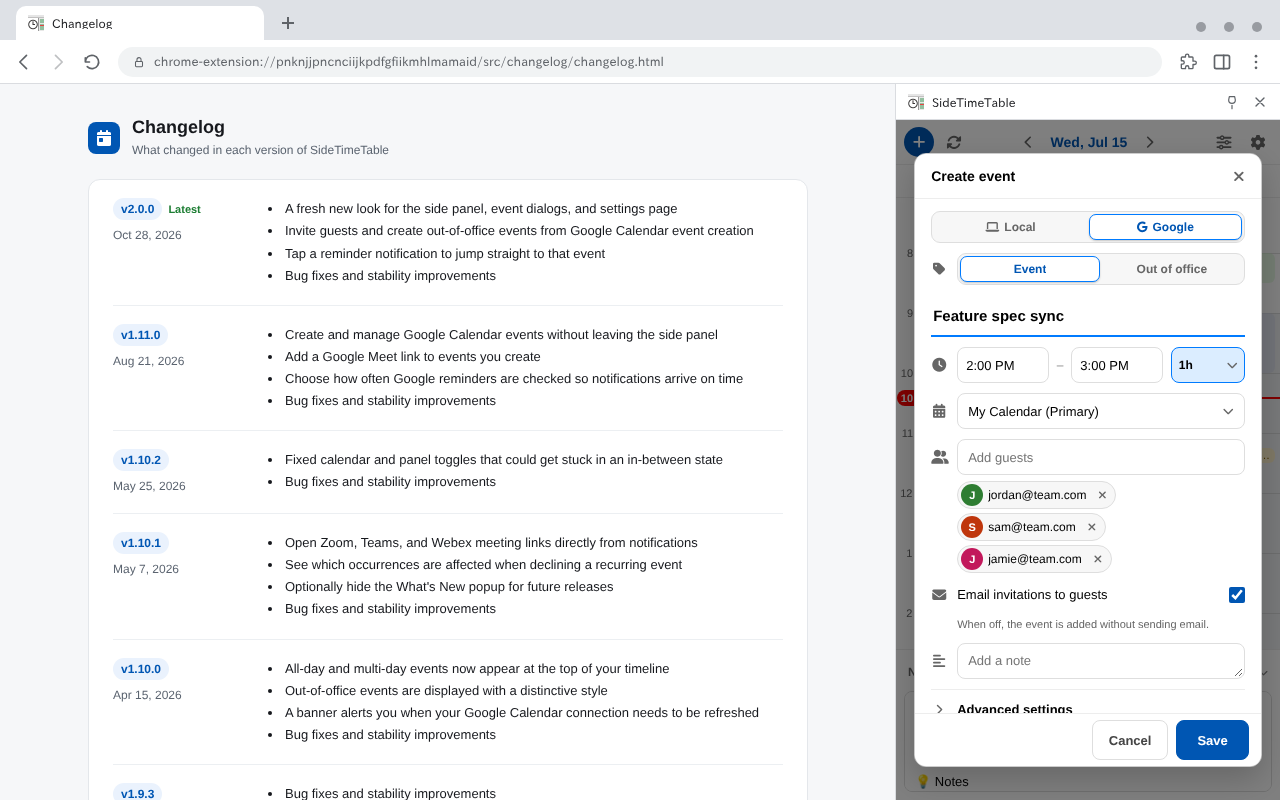
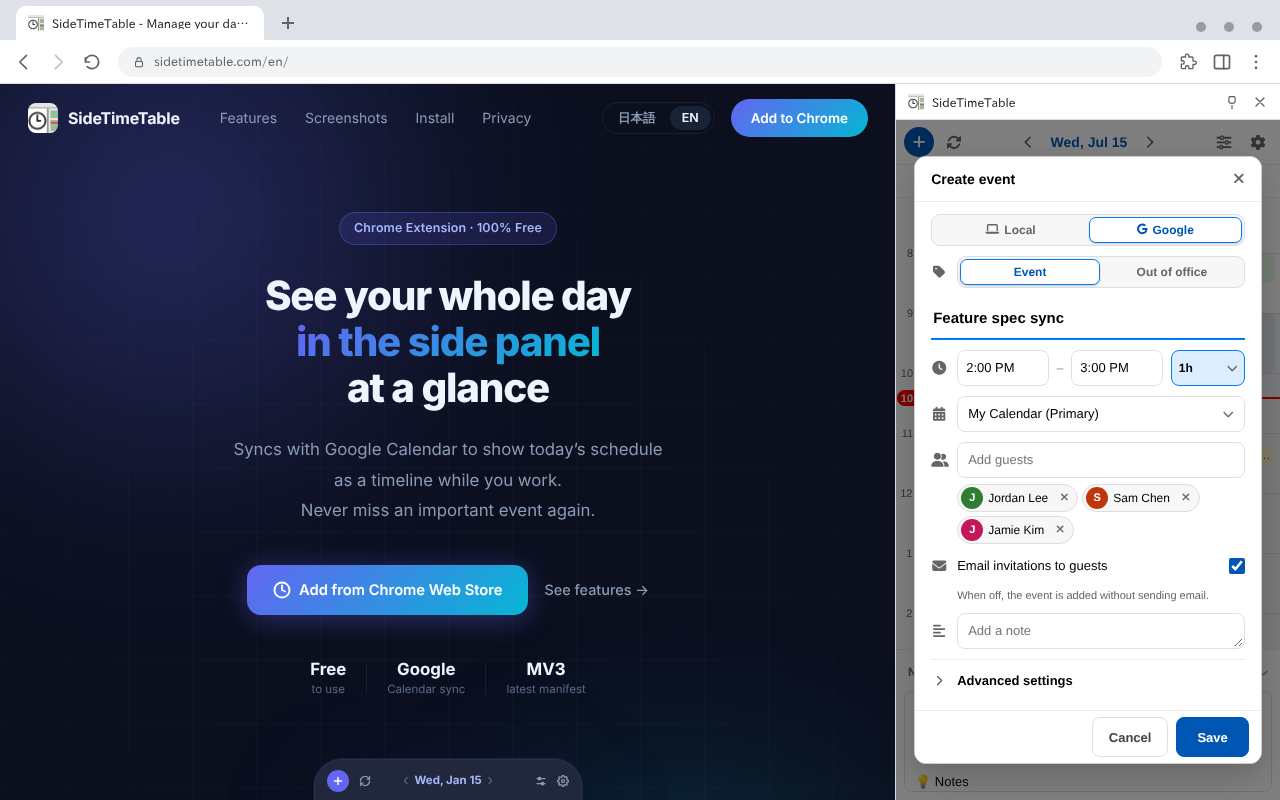
Add a meeting-details screenshot and show the dark timeline in shot 3
- Shot 5: a Google meeting's details with the Meet button, each guest's
  reply and the RSVP control. The dev_team demo's team meeting gets guests
  and an unanswered invitation for it.
- Shot 3 drops the local create dialog, which repeated shot 4.
- Capture both backdrop pages in both languages so shots 1, 4 and 5 vary.

Claude-Session: https://claude.ai/code/session_01SzrF9JTe1vhCmxkuxd6DeB

diff --git a/scripts/screenshots/capture.js b/scripts/screenshots/capture.js
@@ -6,11 +6,12 @@
  * captures the raw page images that compose.js later frames:
  *
  *   panel-light[-en].png       side panel timeline (light theme)
- *   panel-dark-modal[-en].png  side panel with the local event modal (dark)
+ *   panel-dark[-en].png        side panel timeline (dark)
  *   panel-google-modal[-en].png  side panel creating a Google event with guests (light)
+ *   panel-google-detail[-en].png side panel showing a meeting's details (light)
  *   options-light[-en].png     options page, integration section (light)
  *   options-dark[-en].png      options page, display section (dark)
- *   landing.png / changelog-en.png   backdrop page for shot 1
+ *   landing[-en].png / changelog[-en].png   backdrop pages
  *
  * The page clock is fixed (Playwright Clock API) so the demo date/time in the
  * output is stable across runs - re-running with no UI change reproduces the
@@ -38,7 +39,7 @@ const LOCALES = {
         env: { LANGUAGE: 'ja_JP', LANG: 'ja_JP.UTF-8', LC_ALL: 'ja_JP.UTF-8' },
         chromeLang: 'ja', locale: 'ja-JP', tz: 'Asia/Tokyo',
         fixedTime: `${FIXED_DATE}T${FIXED_TIME}:00+09:00`,
-        eventTitle: 'デザインレビュー',
+        meetingTitle: 'チーム定例MTG',
         googleEventTitle: '新機能の仕様すり合わせ',
         primaryCalendar: 'マイカレンダー',
         suffix: '',
@@ -47,7 +48,7 @@ const LOCALES = {
         env: { LANGUAGE: 'en_US', LANG: 'en_US.UTF-8', LC_ALL: 'en_US.UTF-8' },
         chromeLang: 'en-US', locale: 'en-US', tz: 'America/New_York',
         fixedTime: `${FIXED_DATE}T${FIXED_TIME}:00-04:00`,
-        eventTitle: 'Design review',
+        meetingTitle: 'Weekly Team Meeting',
         googleEventTitle: 'Feature spec sync',
         primaryCalendar: 'My Calendar',
         suffix: '-en',
@@ -110,7 +111,7 @@ function waitForTheme(page, dark) {
  * @param {'ja'|'en'} lang - Target language
  * @param {Object} opts
  * @param {string} opts.rawDir - Directory for the raw PNGs
- * @param {string} [opts.landingUrl] - Local URL of the landing page (ja shot 1)
+ * @param {string} opts.landingUrl - Local URL of the landing page (served docs/)
  */
 async function capture(lang, { rawDir, landingUrl }) {
     const L = LOCALES[lang];
@@ -211,33 +212,24 @@ async function capture(lang, { rawDir, landingUrl }) {
         await page.reload({ waitUntil: 'load' });
         await waitForTimeline(page);
 
-        // Side panel with local-event modal (dark)
+        // Side panel with a Google meeting's details (light): Meet, guests, RSVP
+        await page.locator('.google-event', { hasText: L.meetingTitle }).first().click({ force: true });
+        await page.locator('.event-detail-join').first().waitFor({ state: 'visible', timeout: 5000 });
+        // Unfold the guest list so each reply shows
+        await page.locator('.event-detail-attendees-toggle').click();
+        await page.waitForTimeout(200);
+        // No focus ring on the close button or the toggle in the capture
+        await page.evaluate(() => document.activeElement?.blur());
+        await page.screenshot({ path: out('panel-google-detail'), animations: 'disabled' });
+
+        // Side panel timeline (dark)
         await page.evaluate(async () => {
             await chrome.storage.sync.set({ colorTheme: 'dark' });
         });
         await page.reload({ waitUntil: 'load' });
         await waitForTimeline(page);
         await waitForTheme(page, true);
-        await page.locator('#addLocalEventButton').click({ force: true });
-        await page.locator('#eventTitle').waitFor({ state: 'visible', timeout: 5000 });
-        // pre-fill the form so the modal looks lived-in
-        await page.evaluate((title) => {
-            const set = (sel, v) => {
-                const el = document.querySelector(sel);
-                if (!el) throw new Error(`missing ${sel}`);
-                el.value = v;
-                el.dispatchEvent(new Event('input', { bubbles: true }));
-                // The form reacts on change (e.g. the duration picker follows the times)
-                el.dispatchEvent(new Event('change', { bubbles: true }));
-            };
-            set('#eventTitle', title);
-            // End first, so the start never lands after the end in between
-            set('#eventEndTime', '17:00');
-            set('#eventStartTime', '16:30');
-            // No focus ring or selected time segment in the capture
-            document.activeElement?.blur();
-        }, L.eventTitle);
-        await page.screenshot({ path: out('panel-dark-modal'), animations: 'disabled' });
+        await page.screenshot({ path: out('panel-dark'), animations: 'disabled' });
         // restore light theme before the options captures
         await page.evaluate(async () => {
             await chrome.storage.sync.set({ colorTheme: 'default' });
@@ -267,21 +259,18 @@ async function capture(lang, { rawDir, landingUrl }) {
             await chrome.storage.sync.set({ colorTheme: 'default' });
         });
 
-        // Backdrop page for shot 1: landing page (ja) / changelog page (en)
+        // Backdrop pages: the landing page and the changelog page
+        if (!landingUrl) throw new Error('landingUrl is required');
         const backdrop = await ctx.newPage();
         await backdrop.clock.setFixedTime(fixedTime);
         await backdrop.setViewportSize({ width: PAGE_W, height: CONTENT_H });
-        if (lang === 'ja') {
-            if (!landingUrl) throw new Error('landingUrl is required for the ja capture');
-            await backdrop.goto(landingUrl, { waitUntil: 'load' });
-            await backdrop.waitForTimeout(1500); // hero entrance animations finish
-            await backdrop.screenshot({ path: path.join(rawDir, 'landing.png'), animations: 'disabled' });
-        } else {
-            await backdrop.goto(changelogUrl, { waitUntil: 'load' });
-            await backdrop.waitForSelector('h1', { timeout: 10000 });
-            await waitForTheme(backdrop, false);
-            await backdrop.screenshot({ path: path.join(rawDir, 'changelog-en.png'), animations: 'disabled' });
-        }
+        await backdrop.goto(lang === 'ja' ? landingUrl : new URL('en/index.html', landingUrl).href, { waitUntil: 'load' });
+        await backdrop.waitForTimeout(1500); // hero entrance animations finish
+        await backdrop.screenshot({ path: out('landing'), animations: 'disabled' });
+        await backdrop.goto(changelogUrl, { waitUntil: 'load' });
+        await backdrop.waitForSelector('h1', { timeout: 10000 });
+        await waitForTheme(backdrop, false);
+        await backdrop.screenshot({ path: out('changelog'), animations: 'disabled' });
     } finally {
         await ctx.close();
         try {

diff --git a/scripts/screenshots/compose.js b/scripts/screenshots/compose.js
@@ -5,7 +5,7 @@
  * frame (tab strip, toolbar, omnibox, optional side-panel header) and renders
  * the result at 1280x800 - the Chrome Web Store standard screenshot size.
  *
- * Output: image_1[_en].png .. image_4[_en].png
+ * Output: image_1[_en].png .. image_5[_en].png
  */
 
 const fs = require('fs');
@@ -33,14 +33,14 @@ const THEMES = {
     },
 };
 
+const LANDING_JA = { tabTitle: 'SideTimeTable - サイドパネルで今日を管理する', url: 'sidetimetable.com' };
+const LANDING_EN = { tabTitle: 'SideTimeTable - Manage your day in the side panel', url: 'sidetimetable.com/en/' };
+const CHANGELOG_JA = { tabTitle: '変更履歴', url: `${EXT_URL}/src/changelog/changelog.html` };
+const CHANGELOG_EN = { tabTitle: 'Changelog', url: `${EXT_URL}/src/changelog/changelog.html` };
+
 const SHOTS = {
     ja: [
-        {
-            out: 'image_1.png', theme: 'light',
-            tabTitle: 'SideTimeTable - サイドパネルで今日を管理する',
-            url: 'sidetimetable.com',
-            pageImg: 'landing.png', panelImg: 'panel-light.png',
-        },
+        { out: 'image_1.png', theme: 'light', ...LANDING_JA, pageImg: 'landing.png', panelImg: 'panel-light.png' },
         {
             out: 'image_2.png', theme: 'light',
             tabTitle: 'SideTimeTable の設定',
@@ -51,22 +51,13 @@ const SHOTS = {
             out: 'image_3.png', theme: 'dark',
             tabTitle: 'SideTimeTable の設定',
             url: `${EXT_URL}/src/options/options.html`,
-            pageImg: 'options-dark.png', panelImg: 'panel-dark-modal.png',
+            pageImg: 'options-dark.png', panelImg: 'panel-dark.png',
         },
-        {
-            out: 'image_4.png', theme: 'light',
-            tabTitle: 'SideTimeTable - サイドパネルで今日を管理する',
-            url: 'sidetimetable.com',
-            pageImg: 'landing.png', panelImg: 'panel-google-modal.png',
-        },
+        { out: 'image_4.png', theme: 'light', ...CHANGELOG_JA, pageImg: 'changelog.png', panelImg: 'panel-google-modal.png' },
+        { out: 'image_5.png', theme: 'light', ...LANDING_JA, pageImg: 'landing.png', panelImg: 'panel-google-detail.png' },
     ],
     en: [
-        {
-            out: 'image_1_en.png', theme: 'light',
-            tabTitle: 'Changelog',
-            url: `${EXT_URL}/src/changelog/changelog.html`,
-            pageImg: 'changelog-en.png', panelImg: 'panel-light-en.png',
-        },
+        { out: 'image_1_en.png', theme: 'light', ...CHANGELOG_EN, pageImg: 'changelog-en.png', panelImg: 'panel-light-en.png' },
         {
             out: 'image_2_en.png', theme: 'light',
             tabTitle: 'SideTimeTable settings',
@@ -77,14 +68,10 @@ const SHOTS = {
             out: 'image_3_en.png', theme: 'dark',
             tabTitle: 'SideTimeTable settings',
             url: `${EXT_URL}/src/options/options.html`,
-            pageImg: 'options-dark-en.png', panelImg: 'panel-dark-modal-en.png',
+            pageImg: 'options-dark-en.png', panelImg: 'panel-dark-en.png',
         },
-        {
-            out: 'image_4_en.png', theme: 'light',
-            tabTitle: 'Changelog',
-            url: `${EXT_URL}/src/changelog/changelog.html`,
-            pageImg: 'changelog-en.png', panelImg: 'panel-google-modal-en.png',
-        },
+        { out: 'image_4_en.png', theme: 'light', ...LANDING_EN, pageImg: 'landing-en.png', panelImg: 'panel-google-modal-en.png' },
+        { out: 'image_5_en.png', theme: 'light', ...CHANGELOG_EN, pageImg: 'changelog-en.png', panelImg: 'panel-google-detail-en.png' },
     ],
 };
 

diff --git a/src/lib/demo-data.js b/src/lib/demo-data.js
@@ -128,7 +128,16 @@ function _devTeamEvents(today, locale) {
             calendarBackgroundColor: '#3F51B5',
             calendarForegroundColor: '#FFFFFF',
             hangoutLink: 'https://meet.google.com/demo-meeting-1',
-            htmlLink: 'https://calendar.google.com/calendar/event?eid=demo1'
+            htmlLink: 'https://calendar.google.com/calendar/event?eid=demo1',
+            // Guests with mixed replies, and the user still to answer (RSVP)
+            isOwnedCalendar: true,
+            attendees: [
+                { email: 'jordan@team.com', displayName: T('Jordan Lee', '山田 翔'), organizer: true, responseStatus: 'accepted' },
+                { email: 'me@team.com', self: true, responseStatus: 'needsAction' },
+                { email: 'sam@team.com', displayName: T('Sam Chen', '佐藤 誠'), responseStatus: 'accepted' },
+                { email: 'jamie@team.com', displayName: T('Jamie Kim', '鈴木 花'), responseStatus: 'tentative' },
+                { email: 'casey@team.com', displayName: T('Casey Morgan', '中村 真由美'), responseStatus: 'declined' }
+            ]
         },
         // 10:30–12:00  Deep work
         {

diff --git a/scripts/screenshots/generate.js b/scripts/screenshots/generate.js
@@ -116,19 +116,19 @@ async function main() {
     }
 
     const rawDir = fs.mkdtempSync(path.join(os.tmpdir(), 'stt-screenshot-raw-'));
-    const docsServer = langs.includes('ja') ? await serveDocs() : null;
+    const docsServer = await serveDocs();
 
     try {
         for (const lang of langs) {
             console.log(`Capturing ${lang} screenshots...`);
-            await capture(lang, { rawDir, landingUrl: docsServer?.url });
+            await capture(lang, { rawDir, landingUrl: docsServer.url });
             console.log(`Composing ${lang} screenshots...`);
             await compose(lang, { rawDir, outDir });
         }
         console.log(`Done. Screenshots written to ${outDir}`);
         console.log('Note: dist/ now contains a demo development build - run `npm run build` before packaging a release.');
     } finally {
-        docsServer?.close();
+        docsServer.close();
         fs.rmSync(rawDir, { recursive: true, force: true });
     }
 }

diff --git a/scripts/screenshots/README.md b/scripts/screenshots/README.md
@@ -8,12 +8,12 @@
 # 前提: Playwright (devDependency ではないため個別インストール)
 npm i -D playwright && npx playwright install chromium
 
-# 日英 8 枚を docs/img/ に生成
+# 日英 10 枚を docs/img/ に生成
 npm run screenshots
 
 # オプション
-npm run screenshots -- --lang ja      # 日本語 4 枚のみ
-npm run screenshots -- --lang en      # 英語 4 枚のみ
+npm run screenshots -- --lang ja      # 日本語 5 枚のみ
+npm run screenshots -- --lang en      # 英語 5 枚のみ
 npm run screenshots -- --skip-build   # dist/ の既存ビルドを再利用
 npm run screenshots -- --out <dir>    # 出力先を変更
 ```
@@ -24,8 +24,9 @@ npm run screenshots -- --out <dir>    # 出力先を変更
 |---|---|
 | `image_1.png` / `image_1_en.png` | サイドパネルのタイムライン+メモ(ライト)。背景は ja=ランディングページ / en=変更履歴ページ |
 | `image_2.png` / `image_2_en.png` | 設定ページ: Google連携+カレンダー管理(ライト) |
-| `image_3.png` / `image_3_en.png` | 設定ページ(ダーク)+予定作成モーダルを開いたサイドパネル |
-| `image_4.png` / `image_4_en.png` | Google予定の作成ダイアログ(ゲスト3人)を開いたサイドパネル(ライト)。背景は image_1 と同じ |
+| `image_3.png` / `image_3_en.png` | 設定ページ(ダーク)+サイドパネルのタイムライン(ダーク) |
+| `image_4.png` / `image_4_en.png` | Google予定の作成ダイアログ(ゲスト3人)。背景は ja=変更履歴ページ / en=ランディングページ |
+| `image_5.png` / `image_5_en.png` | 会議の詳細(Meet参加ボタン・参加者の出欠・出欠ボタン)。背景は image_1 と同じ |
 
 日本語版は `docs/index.html` が参照。英語版はウェブストアの英語リスティング用
 (ダッシュボードから手動アップロード)。
